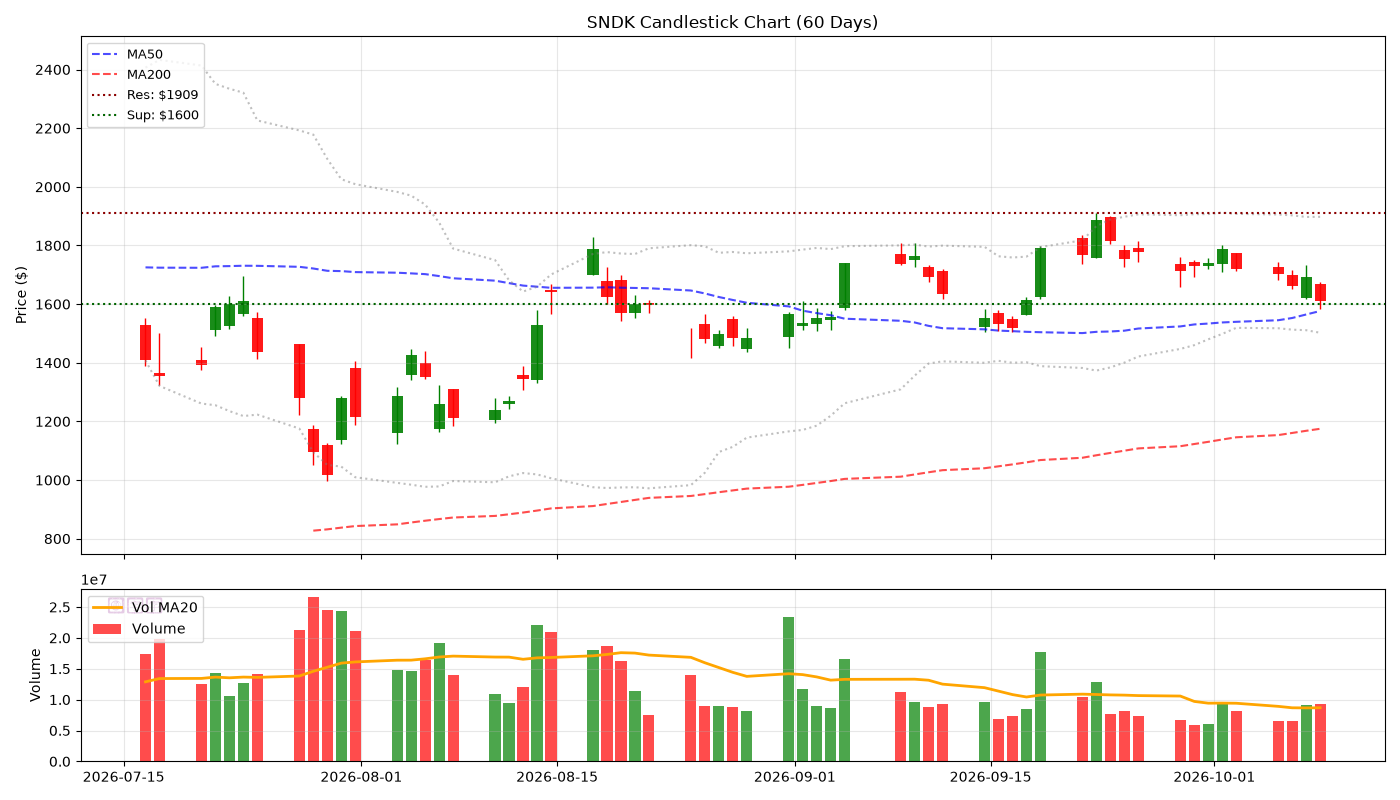
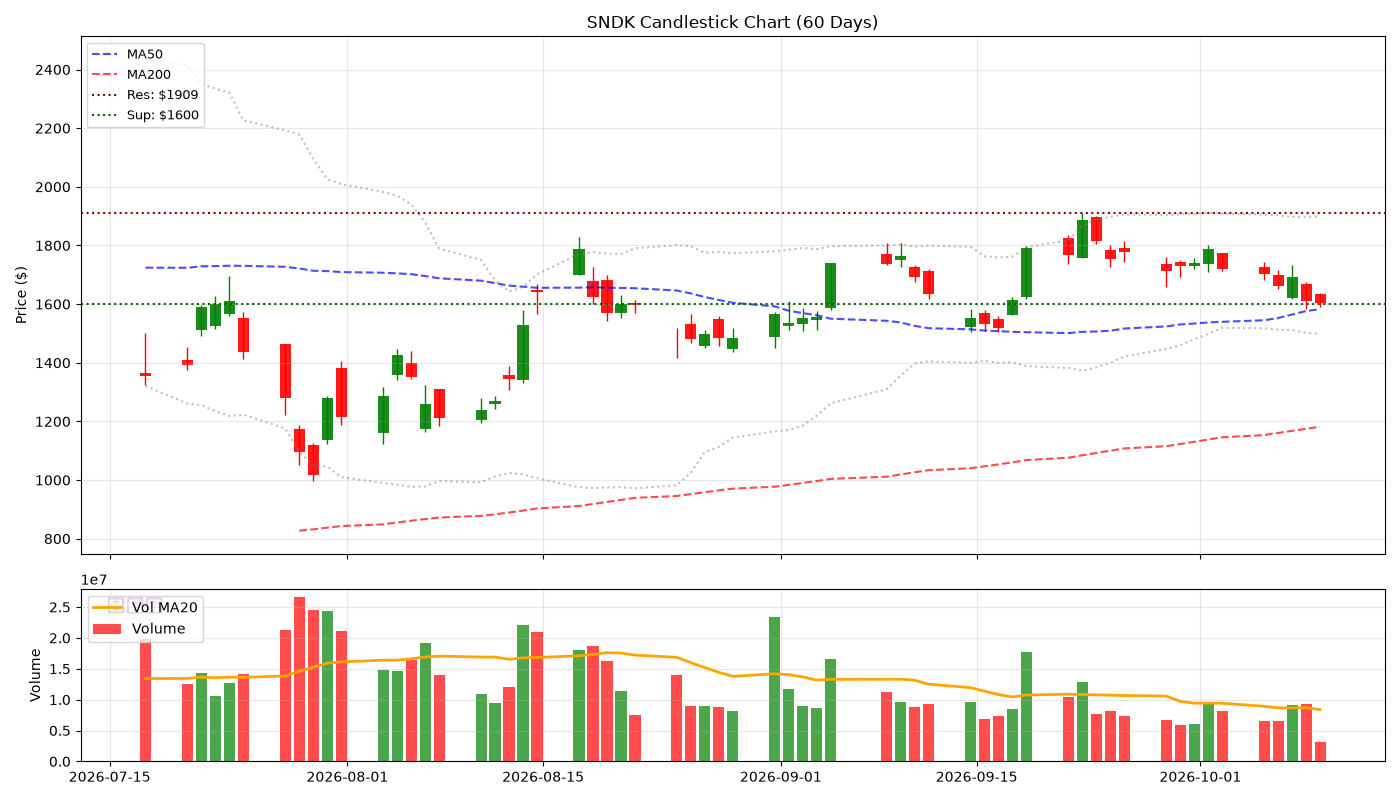
feat(v5): 2026-10-10 Candlestick

diff --git a/reports/2026-10-10.md b/reports/2026-10-10.md
@@ -1,0 +1,85 @@
+# 🕯 Hermes V5 陰陽燭專業日報 - 2026-10-10
+> **生成時間**: 2026-10-10 00:31:32 | **圖表**: 正宗陰陽燭 + Volume
+
+---
+
+## 📊 核心數據
+
+| 股票 | 價格 | 漲跌% | RSI | 成交量 | 阻力 | 支撐 |
+|------|------|-------|-----|--------|------|------|
+| SNDK | $1604.66 | -0.30% | 37.8 | 💤 | $1909 | $1600 |
+| MU | $1028.08 | -0.75% | 47.5 | 💤 | $1050 | $1000 |
+| SOXL | $138.98 | -2.48% | 48.1 | 💧 | $150 | $100 |
+| TSLA | $382.87 | +2.10% | 55.1 | 💧 | $389 | $346 |
+| APP | $277.69 | -0.87% | 19.1 | 💤 | $300 | $267 |
+| NOW | $140.15 | +0.29% | 53.8 | 💤 | $148 | $127 |
+| CAT | $800.20 | +0.50% | 45.6 | 💤 | $877 | $800 |
+| AMAT | $509.98 | +0.08% | 70.3 | 💤 | $547 | $500 |
+| NOK | $10.32 | +1.78% | 42.1 | 💤 | $11 | $10 |
+| ALAB | $339.46 | -2.19% | 49.6 | 💧 | $350 | $300 |
+
+---
+
+## 📈 個股陰陽燭分析
+
+### SNDK ($1604.66, -0.30%)
+![Candlestick](../charts/SNDK.png)
+
+- **RSI**: 37.8 | **Vol**: LOW
+- **關鍵位**: 阻力 $1909.48 | 支撐 $1600.00
+
+### MU ($1028.08, -0.75%)
+![Candlestick](../charts/MU.png)
+
+- **RSI**: 47.5 | **Vol**: LOW
+- **關鍵位**: 阻力 $1050.00 | 支撐 $1000.00
+
+### SOXL ($138.98, -2.48%)
+![Candlestick](../charts/SOXL.png)
+
+- **RSI**: 48.1 | **Vol**: NORMAL
+- **關鍵位**: 阻力 $150.00 | 支撐 $100.00
+
+### TSLA ($382.87, +2.10%)
+![Candlestick](../charts/TSLA.png)
+
+- **RSI**: 55.1 | **Vol**: NORMAL
+- **關鍵位**: 阻力 $388.56 | 支撐 $345.88
+
+### APP ($277.69, -0.87%)
+![Candlestick](../charts/APP.png)
+
+- **RSI**: 19.1 | **Vol**: LOW
+- **關鍵位**: 阻力 $300.00 | 支撐 $266.84
+
+### NOW ($140.15, +0.29%)
+![Candlestick](../charts/NOW.png)
+
+- **RSI**: 53.8 | **Vol**: LOW
+- **關鍵位**: 阻力 $147.57 | 支撐 $126.75
+
+### CAT ($800.20, +0.50%)
+![Candlestick](../charts/CAT.png)
+
+- **RSI**: 45.6 | **Vol**: LOW
+- **關鍵位**: 阻力 $876.95 | 支撐 $800.00
+
+### AMAT ($509.98, +0.08%)
+![Candlestick](../charts/AMAT.png)
+
+- **RSI**: 70.3 | **Vol**: LOW
+- **關鍵位**: 阻力 $547.25 | 支撐 $500.00
+
+### NOK ($10.32, +1.78%)
+![Candlestick](../charts/NOK.png)
+
+- **RSI**: 42.1 | **Vol**: LOW
+- **關鍵位**: 阻力 $11.05 | 支撐 $9.65
+
+### ALAB ($339.46, -2.19%)
+![Candlestick](../charts/ALAB.png)
+
+- **RSI**: 49.6 | **Vol**: NORMAL
+- **關鍵位**: 阻力 $350.00 | 支撐 $300.00
+
+*Generated by Hermes Agent V5 (Candlestick Pro)*

diff --git a/index.md b/index.md
@@ -1,12 +1,12 @@
 # 🌍 Hermes V5 陰陽燭情報中心
-> **更新**: 2026-10-09 06:01:21
+> **更新**: 2026-10-10 00:31:32
 
 | 股票 | 價格 | 漲跌% | RSI | Vol |
 |------|------|-------|-----|-----|
-| SNDK | $1609.46 | -4.90% | 36.7 | 💤 |
-| MU | $1035.84 | -4.79% | 53.0 | 💤 |
-| SOXL | $142.52 | -10.31% | 60.2 | 🔥 |
-| TSLA | $375.00 | -0.74% | 56.9 | 💤 |
-| APP | $280.12 | -0.42% | 36.7 | 💤 |
+| SNDK | $1604.66 | -0.30% | 37.8 | 💤 |
+| MU | $1028.08 | -0.75% | 47.5 | 💤 |
+| SOXL | $138.98 | -2.48% | 48.1 | 💤 |
+| TSLA | $382.87 | +2.10% | 55.1 | 💤 |
+| APP | $277.69 | -0.87% | 19.1 | 💤 |
 
-📖 [查看完整陰陽燭報告](reports/2026-10-09.md)
+📖 [查看完整陰陽燭報告](reports/2026-10-10.md)
